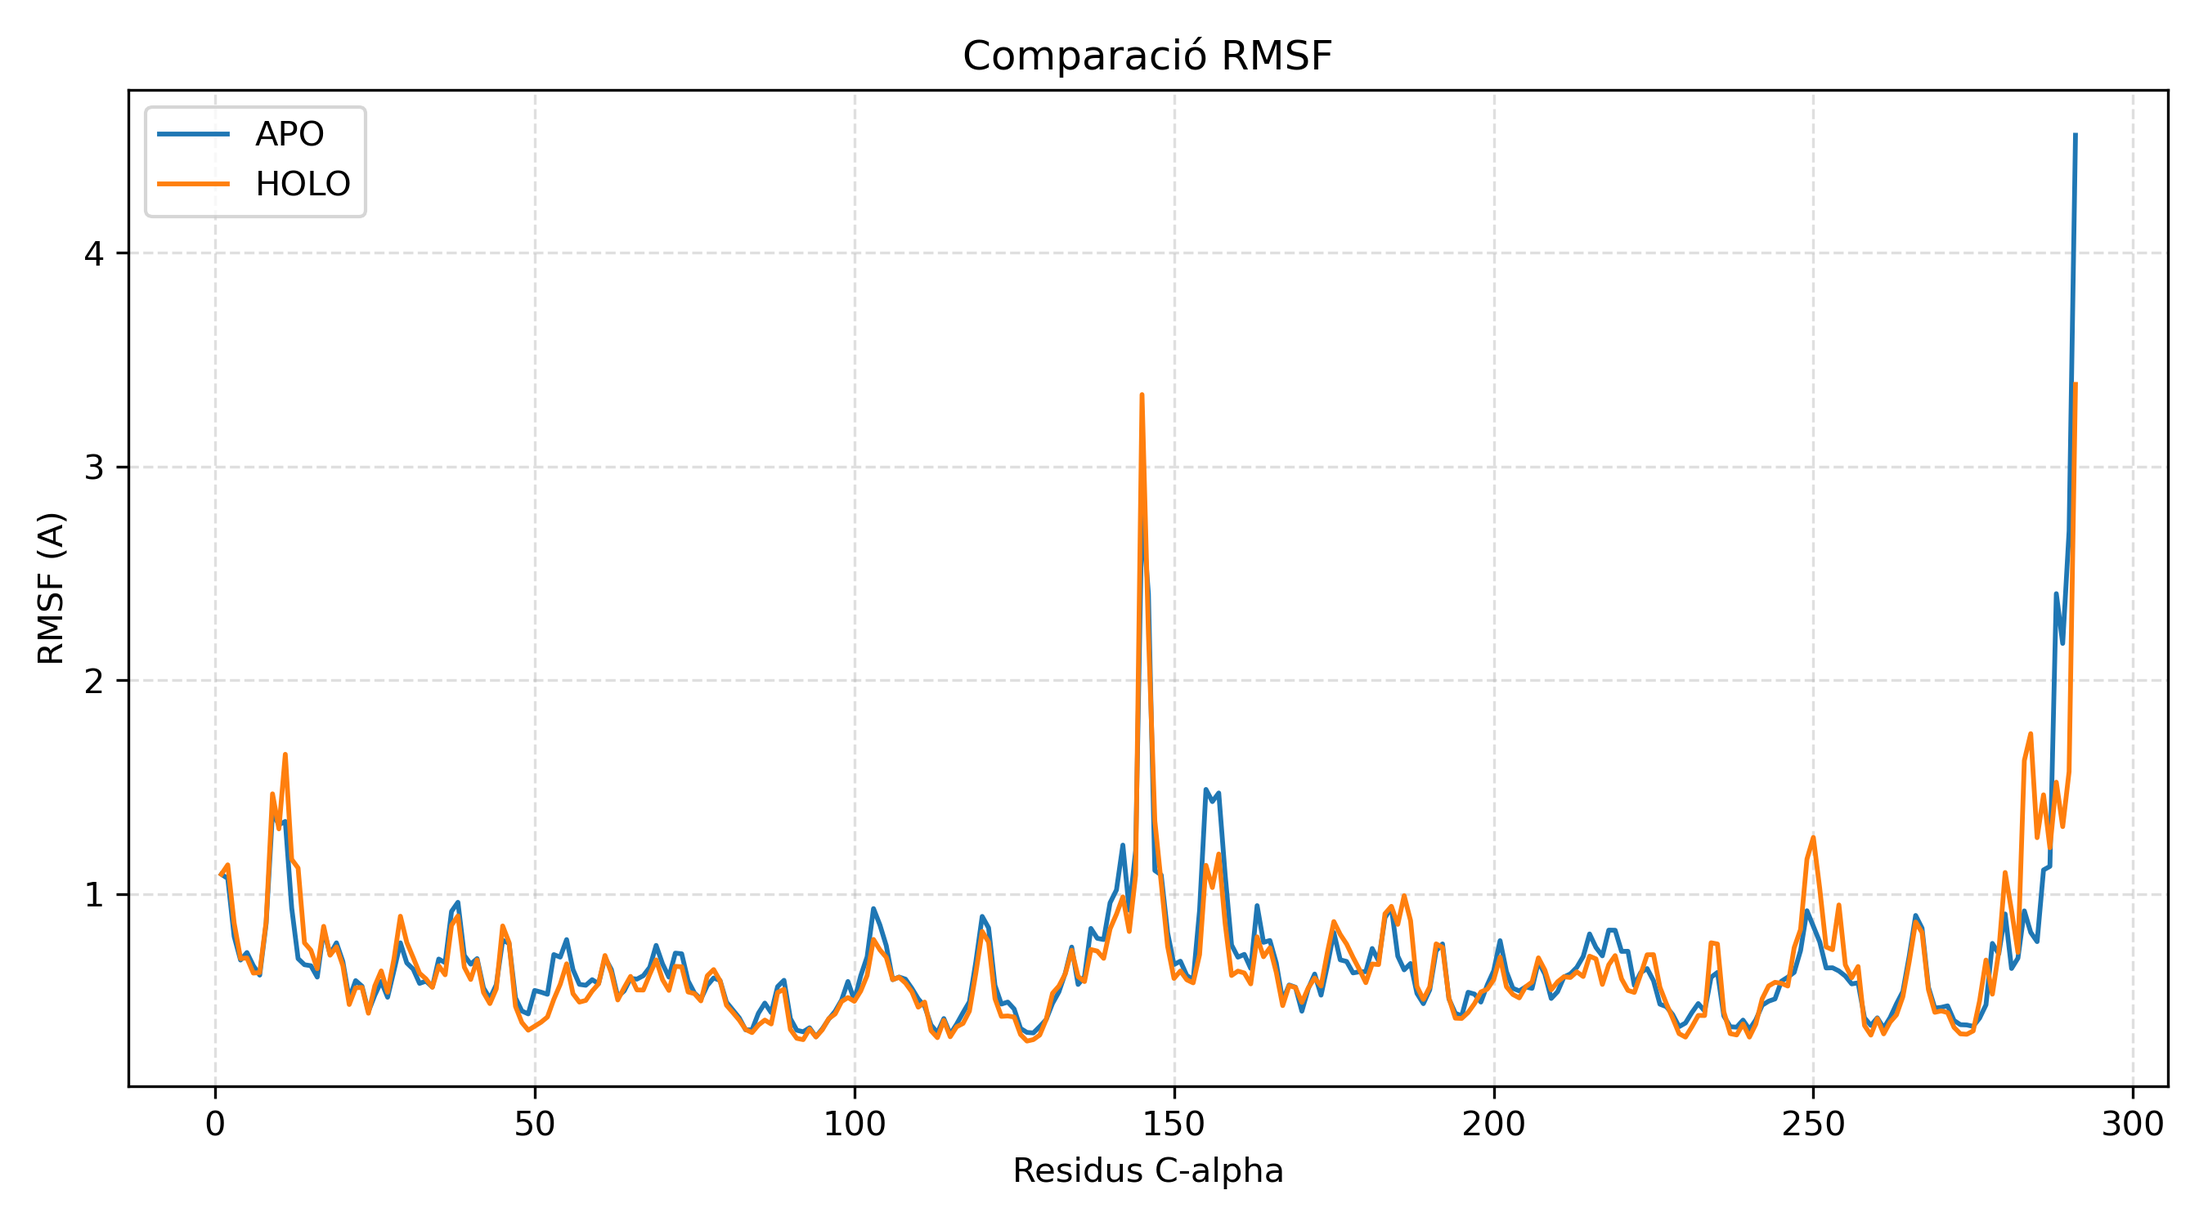
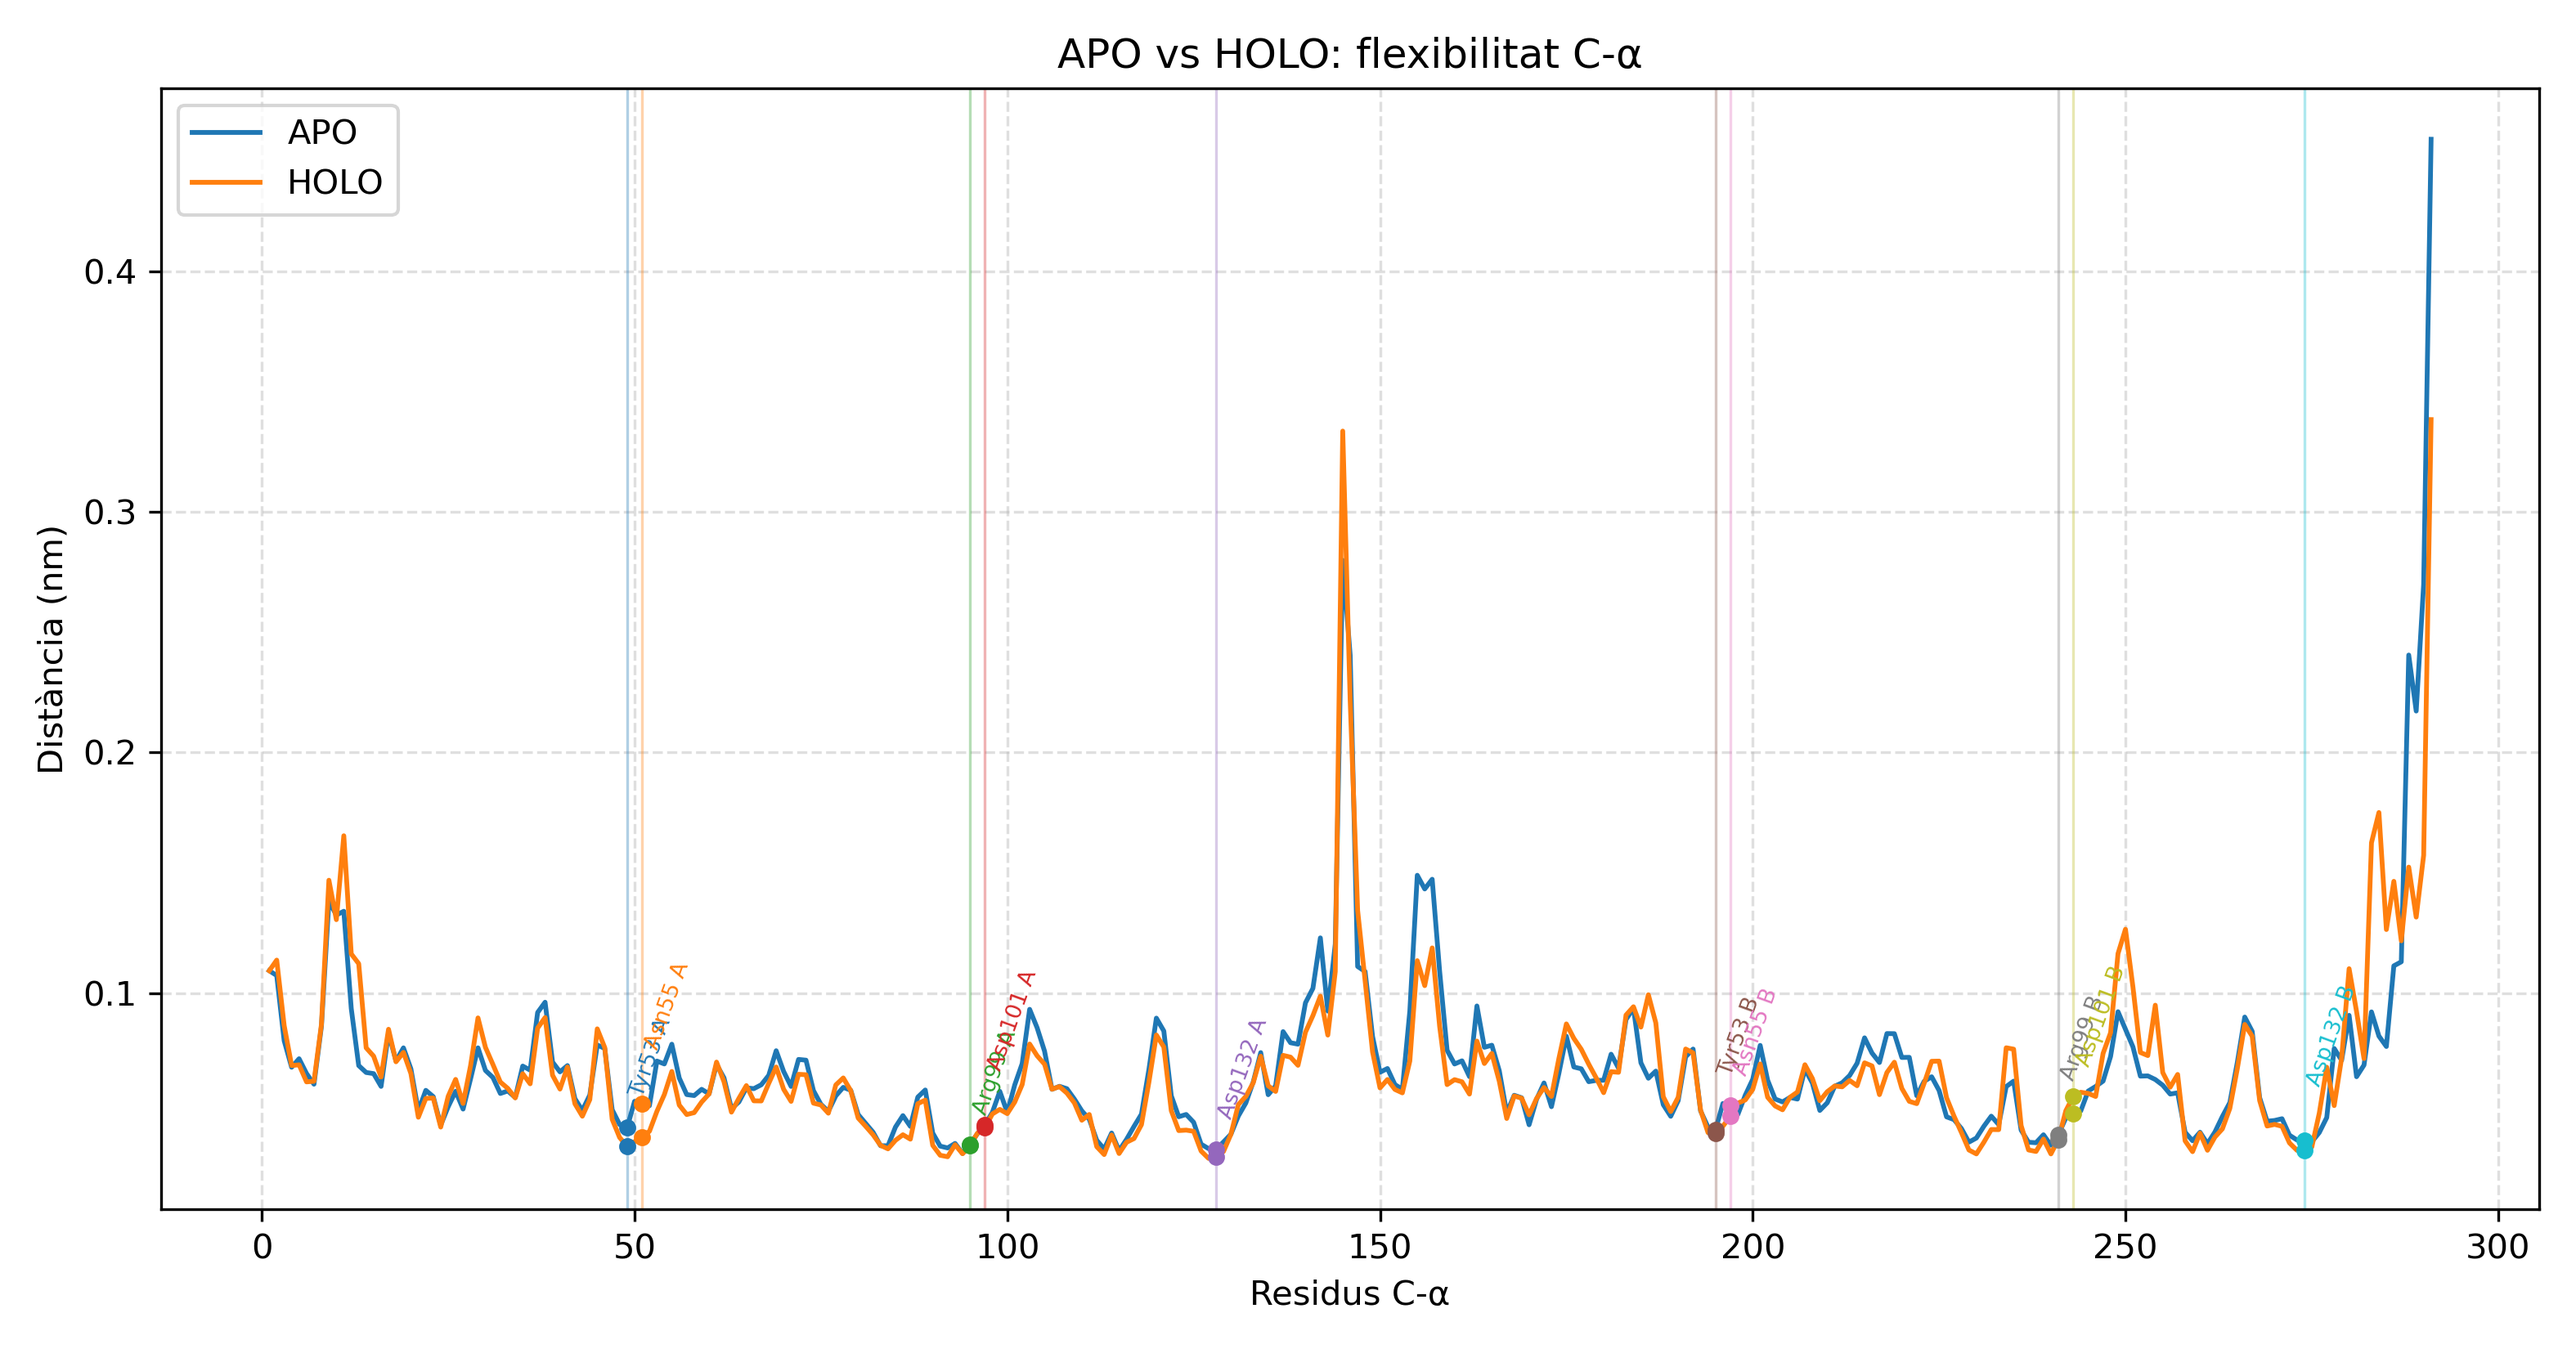
ok

diff --git a/calculs/analisi/resultats/compare_apo_holo_results.py b/calculs/analisi/resultats/compare_apo_holo_results.py
@@ -11,6 +11,18 @@ import numpy as np
 SCRIPT_DIR = Path(__file__).resolve().parent
 DEFAULT_INPUT_DIR = SCRIPT_DIR / "joined"
 DEFAULT_OUTPUT_DIR = SCRIPT_DIR / "comparacio_apo_holo"
+ACTIVE_SITE_DISPLAY_LABELS = {
+    "TYR48": "Tyr53 A",
+    "ASN50": "Asn55 A",
+    "ARG94": "Arg99 A",
+    "ASP96": "Asp101 A",
+    "ASP127": "Asp132 A",
+    "TYR194": "Tyr53 B",
+    "ASN196": "Asn55 B",
+    "ARG240": "Arg99 B",
+    "ASP242": "Asp101 B",
+    "ASP273": "Asp132 B",
+}
 
 
 def parse_args() -> argparse.Namespace:
@@ -112,7 +124,13 @@ def save_overlay_plot(
     plt.close()
 
 
-def save_rmsf_plot(output_path: Path, apo: np.ndarray, holo: np.ndarray) -> None:
+def save_rmsf_plot(
+    output_path: Path,
+    apo_residues: list[str],
+    apo: np.ndarray,
+    holo_residues: list[str],
+    holo: np.ndarray,
+) -> None:
     import matplotlib
 
     matplotlib.use("Agg")
@@ -120,19 +138,53 @@ def save_rmsf_plot(output_path: Path, apo: np.ndarray, holo: np.ndarray) -> None
 
     n_points = min(len(apo), len(holo))
     x_values = np.arange(1, n_points + 1)
+    active_points = [
+        (idx + 1, residue, ACTIVE_SITE_DISPLAY_LABELS[residue])
+        for idx, residue in enumerate(holo_residues[:n_points])
+        if residue in ACTIVE_SITE_DISPLAY_LABELS
+    ]
+    if not active_points:
+        active_points = [
+            (idx + 1, residue, ACTIVE_SITE_DISPLAY_LABELS[residue])
+            for idx, residue in enumerate(apo_residues[:n_points])
+            if residue in ACTIVE_SITE_DISPLAY_LABELS
+        ]
+    colors = plt.get_cmap("tab10").colors
 
     output_path.parent.mkdir(parents=True, exist_ok=True)
-    plt.figure(figsize=(9, 5), dpi=300)
-    plt.plot(x_values, apo[:n_points], label="APO", linewidth=1.4)
-    plt.plot(x_values, holo[:n_points], label="HOLO", linewidth=1.4)
-    plt.title("APO vs HOLO: flexibilitat C-α")
-    plt.xlabel("Residus Cα")
-    plt.ylabel("Distància (nm)")
-    plt.grid(True, linestyle="--", alpha=0.4)
-    plt.legend()
-    plt.tight_layout()
-    plt.savefig(output_path)
-    plt.close()
+    fig, ax = plt.subplots(figsize=(10.5, 5.5), dpi=300)
+    ax.plot(x_values, apo[:n_points], label="APO", linewidth=1.4)
+    ax.plot(x_values, holo[:n_points], label="HOLO", linewidth=1.4)
+    for color_idx, (position, _residue, label) in enumerate(active_points):
+        color = colors[color_idx % len(colors)]
+        y_value = max(apo[position - 1], holo[position - 1])
+        ax.axvline(position, color=color, linewidth=0.8, alpha=0.35)
+        ax.scatter(
+            [position, position],
+            [apo[position - 1], holo[position - 1]],
+            color=[color],
+            s=16,
+            zorder=4,
+        )
+        ax.annotate(
+            label,
+            xy=(position, y_value),
+            xytext=(0, 8 + (color_idx % 2) * 7),
+            textcoords="offset points",
+            rotation=70,
+            ha="left",
+            va="bottom",
+            fontsize=6.5,
+            color=color,
+        )
+    ax.set_title("APO vs HOLO: flexibilitat C-α")
+    ax.set_xlabel("Residus C-α")
+    ax.set_ylabel("Distància (nm)")
+    ax.grid(True, linestyle="--", alpha=0.4)
+    ax.legend()
+    fig.tight_layout()
+    fig.savefig(output_path)
+    plt.close(fig)
 
 
 def stats(values: np.ndarray) -> tuple[float, float, float]:
@@ -195,7 +247,7 @@ def main() -> None:
 
     apo_residues, apo_rmsf = read_rmsf(apo_dir / "rmsf_ca.csv")
     holo_residues, holo_rmsf = read_rmsf(holo_dir / "rmsf_ca.csv")
-    save_rmsf_plot(output_dir / "rmsf_apo_holo.png", apo_rmsf, holo_rmsf)
+    save_rmsf_plot(output_dir / "rmsf_apo_holo.png", apo_residues, apo_rmsf, holo_residues, holo_rmsf)
 
     n_residues = min(len(apo_rmsf), len(holo_rmsf))
     rmsf_diff = holo_rmsf[:n_residues] - apo_rmsf[:n_residues]

diff --git a/calculs/analisi/resultats/analyze_joined_trajectories.py b/calculs/analisi/resultats/analyze_joined_trajectories.py
@@ -190,37 +190,14 @@ def save_rmsf_plot(output_path: Path, residues: list[str], rmsf_nm: np.ndarray, 
         return
 
     x_values = np.arange(1, len(rmsf_nm) + 1)
-    active_points = [
-        (idx + 1, residue, ACTIVE_SITE_DISPLAY_LABELS[residue])
-        for idx, residue in enumerate(residues)
-        if residue in ACTIVE_SITE_DISPLAY_LABELS
-    ]
 
     output_path.parent.mkdir(parents=True, exist_ok=True)
     plt.figure(figsize=(11, 5.5), dpi=300)
-    plt.plot(x_values, rmsf_nm, linewidth=1.4, label="C-α")
-    for position, _residue, label in active_points:
-        plt.axvline(position, color="tab:red", linewidth=0.7, alpha=0.35)
-        plt.annotate(
-            label,
-            xy=(position, rmsf_nm[position - 1]),
-            xytext=(0, 8),
-            textcoords="offset points",
-            rotation=70,
-            ha="left",
-            va="bottom",
-            fontsize=6.5,
-            color="tab:red",
-        )
-    if active_points:
-        positions = np.array([position for position, _residue, _label in active_points])
-        plt.scatter(positions, rmsf_nm[positions - 1], color="tab:red", s=14, label="Centre actiu")
+    plt.plot(x_values, rmsf_nm, linewidth=1.4)
     plt.title(title)
     plt.xlabel("Residus C-α")
     plt.ylabel("Distància (nm)")
     plt.grid(True, linestyle="--", alpha=0.4)
-    if active_points:
-        plt.legend(fontsize=8)
     plt.tight_layout()
     plt.savefig(output_path)
     plt.close()
